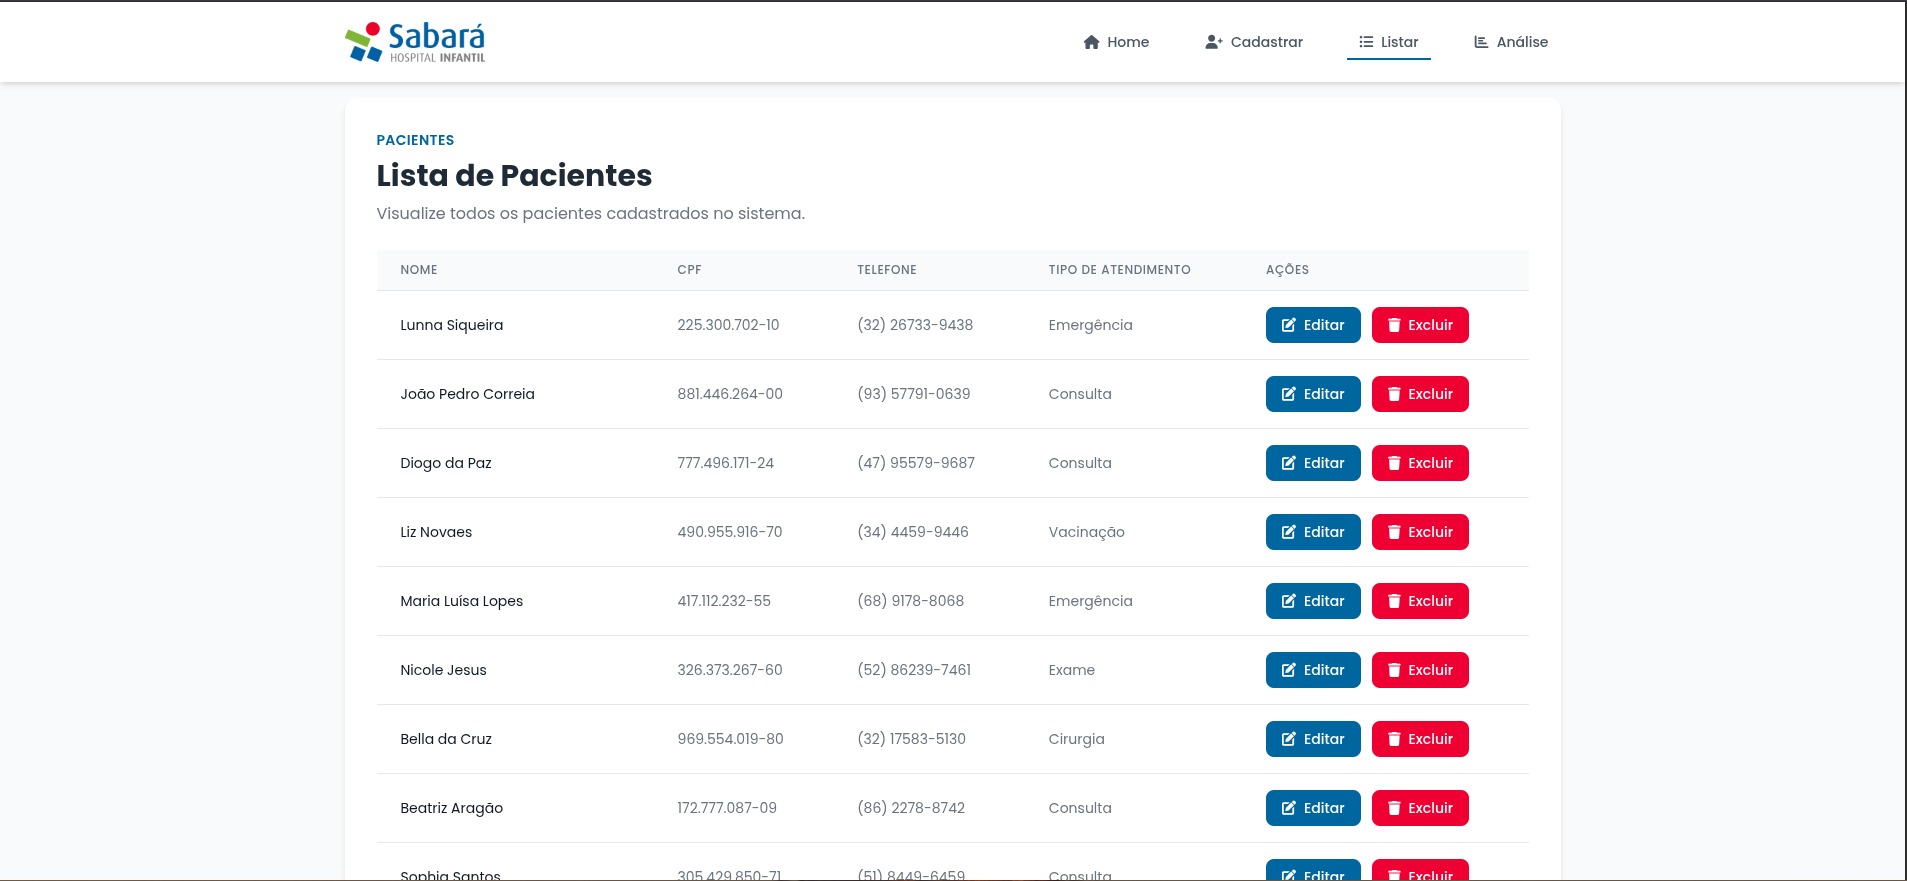
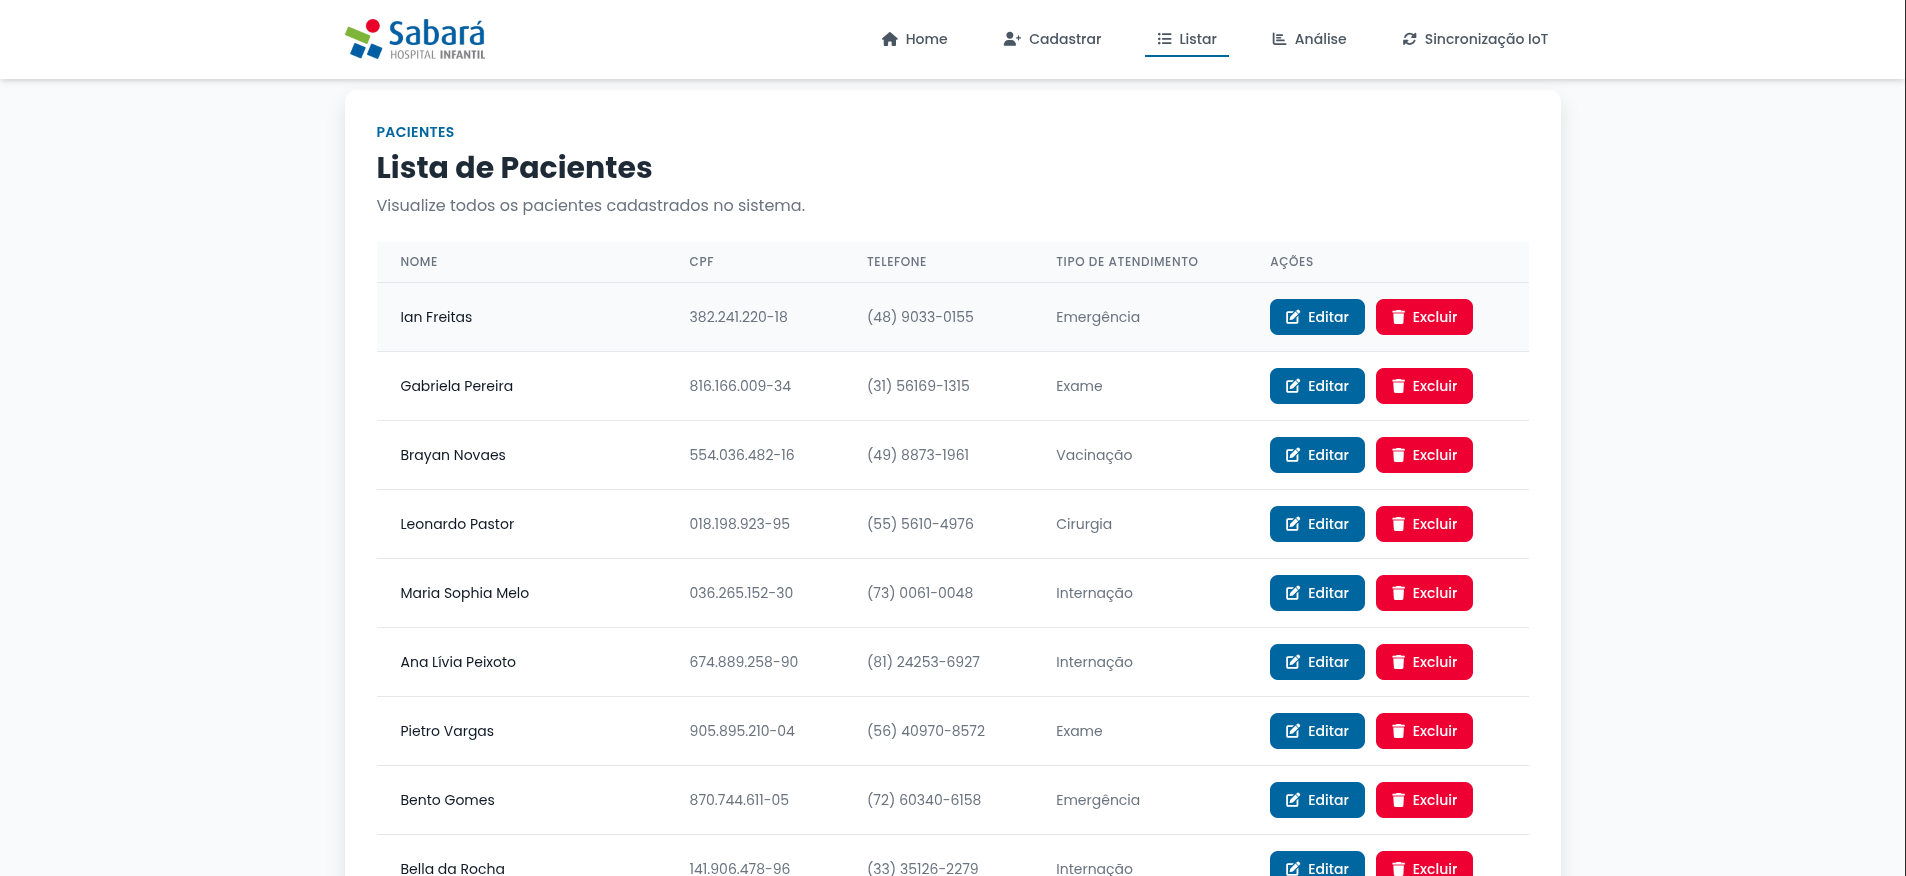
Atualizando documentação

diff --git a/README.md b/README.md
@@ -14,29 +14,32 @@ Este é um projeto apaixonante que combina tecnologia e cuidado, criado para fac
 
 ## 🎯 Sobre o Projeto
 
-O **Sabará Hospital Infantil** é referência no cuidado pediátrico, e este sistema foi desenvolvido para ajudar na gestão de pacientes com até 18 anos. Com uma interface intuitiva e cheia de recursos, ele permite cadastrar pacientes, editar registros, visualizar dados em gráficos interativos e muito mais. Tudo isso com um design moderno e responsivo, perfeito para médicos, enfermeiros e administradores.
+O **Sabará Hospital Infantil** é referência no cuidado pediátrico, e este sistema foi desenvolvido para ajudar na gestão de pacientes com até 18 anos. Com uma interface intuitiva e cheia de recursos, ele permite cadastrar pacientes, editar registros, visualizar dados em gráficos interativos, sincronizar dados com dispositivos IoT, e muito mais. Tudo isso com um design moderno e responsivo, perfeito para médicos, enfermeiros e administradores.
 
 🚀 **Por que este projeto é especial?**  
 - Ele foi pensado para o público pediátrico, garantindo que apenas pacientes com até 18 anos sejam cadastrados.  
 - Oferece gráficos interativos para insights rápidos sobre os dados dos pacientes.  
+- Permite integração com dispositivos IoT para exibir informações em displays remotos.  
 - Tem validações rigorosas (como CPF e telefone) para garantir a qualidade dos dados.  
 
 ### 🖼 Veja o Sistema em Ação
 
-Aqui estão algumas capturas de tela do sistema em funcionamento:
--
-![Screenshot da página inicial](screenshots/tela_principal.png)
-### A página inicial dá as boas-vindas com um menu intuitivo e design acolhedor.
-<br><br>
-![Screenshot do formulário de cadastro](screenshots/cadastro.png)
-### Formulário elegante com máscaras para CPF e telefone, e validações em tempo real.
-<br><br>
-![Screenshot da página de listagem](screenshots/lista_pacientes.png)
-### Uma tabela clara para visualizar todos os pacientes cadastrados.
-<br><br>
-![Screenshot da análise de dados](screenshots/analise_dados.png)
-### Gráficos interativos mostrando a distribuição de pacientes por idade, sexo e mais.
-
+Aqui estão algumas capturas de tela do sistema em funcionamento:  
+-  
+![Screenshot da página inicial](screenshots/tela_principal.png)  
+### A página inicial dá as boas-vindas com um menu intuitivo e design acolhedor.  
+<br><br>  
+![Screenshot do formulário de cadastro](screenshots/cadastro.png)  
+### Formulário elegante com máscaras para CPF e telefone, e validações em tempo real.  
+<br><br>  
+![Screenshot da página de listagem](screenshots/lista_pacientes.png)  
+### Uma tabela clara para visualizar todos os pacientes cadastrados.  
+<br><br>  
+![Screenshot da análise de dados](screenshots/analise_dados.png)  
+### Gráficos interativos mostrando a distribuição de pacientes por idade, sexo e mais.  
+<br><br>  
+![Screenshot da sincronização IoT](screenshots/sincronizar_iot.png)  
+### Sincronize informações de pacientes com displays conectados via ESP32.  
 
 ## ✨ Funcionalidades
 
@@ -58,9 +61,13 @@ Aqui estão os principais recursos do sistema, projetados para facilitar a vida 
     - Tipos de atendimento (em gráficos de pizza coloridos 🥧).  
     - Distribuição por sexo.  
     - Cadastros ao longo do tempo (em gráficos de linha 📈).  
+- **🌐 Sincronização IoT**:
+  - Envie informações de pacientes (nome e sala) para displays remotos conectados via ESP32.  
+  - Integração com Orion Context Broker para comunicação em tempo real.  
+  - Formato da mensagem: `'nome do paciente' SALA:'número da sala'` (ex.: "João Silva SALA:42").  
 - **📱 Interface Responsiva**:
   - Navegação perfeita em desktops e dispositivos móveis.  
-  - Menu mobile com ícones intuitivos (🏠 Home, ➕ Cadastrar, 📜 Listar, 📊 Análise).  
+  - Menu mobile com ícones intuitivos (🏠 Home, ➕ Cadastrar, 📜 Listar, 📊 Análise, 🌐 Sincronização IoT).  
 - **💬 Feedback ao Usuário**:
   - Mensagens de sucesso (em verde ✅) ou erro (em vermelho 🚨) com animações suaves.
 
@@ -76,6 +83,8 @@ O que torna este sistema único? Aqui estão alguns destaques:
   - Animações sutis, como `fadeIn` e efeitos de hover, para uma experiência visual incrível.  
 - **Análise Visual** 📊:  
   - Gráficos interativos que ajudam a entender os dados dos pacientes de forma rápida e clara.  
+- **Integração IoT** 🌐:  
+  - Comunicação com dispositivos IoT para exibir informações em tempo real em displays remotos.  
 - **Testes Facilitados** 🛠:  
   - Um script personalizado (`populate_pacientes.py`) para gerar 200 pacientes fictícios com dados realistas, perfeito para testes.
 
@@ -89,6 +98,7 @@ Aqui está o arsenal tecnológico que dá vida ao projeto:
 | **Frontend**        | HTML5, Tailwind CSS, FontAwesome, Google Fonts (Poppins) 🎨 |
 | **Interatividade**  | JavaScript (máscaras de entrada, menu mobile) 📱 |
 | **Análise de Dados**| `pandas` + `plotly.express` 📈      |
+| **Integração IoT**  | `requests` + Orion Context Broker 🌐 |
 | **Dados Fictícios** | `faker` para geração de dados realistas 🌟 |
 
 ## 🚀 Como Começar?
@@ -149,6 +159,8 @@ Explore as funcionalidades do sistema com facilidade:
   Veja todos os pacientes cadastrados e edite/exclua se precisar.  
 - **📊 Análise de Dados**: `http://127.0.0.1:8000/analise/`  
   Visualize gráficos incríveis para entender os dados dos pacientes.  
+- **🌐 Sincronização IoT**: `http://127.0.0.1:8000/sincronizar-iot/`  
+  Selecione um paciente e uma sala (1 a 100) para enviar ao display conectado via ESP32.  
 - **🔐 Django Admin**: `http://127.0.0.1:8000/admin/`  
   Gerencie os dados com o superusuário criado.
 
@@ -179,5 +191,6 @@ Quer testar o sistema com dados realistas? Popule o banco com 200 pacientes fict
 - **Responsividade** 📱: Interface que funciona perfeitamente em desktops e dispositivos móveis.  
 - **Animações Suaves** ✨: Efeitos visuais como `fadeIn` e hover para uma experiência encantadora.  
 - **Gráficos Interativos** 📈: Use Plotly para explorar dados de forma visual e dinâmica.  
+- **Integração IoT** 🌐: Comunicação com Orion Context Broker para exibir dados em displays conectados via ESP32.
 
 💙 **Sabará Hospital Infantil** - Cuidando com amor e tecnologia da saúde das crianças! 💙
